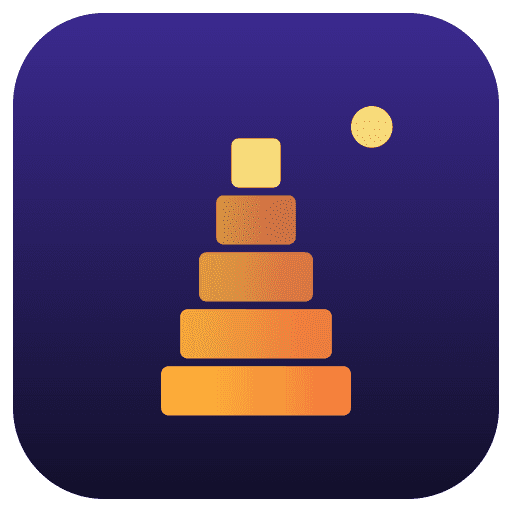
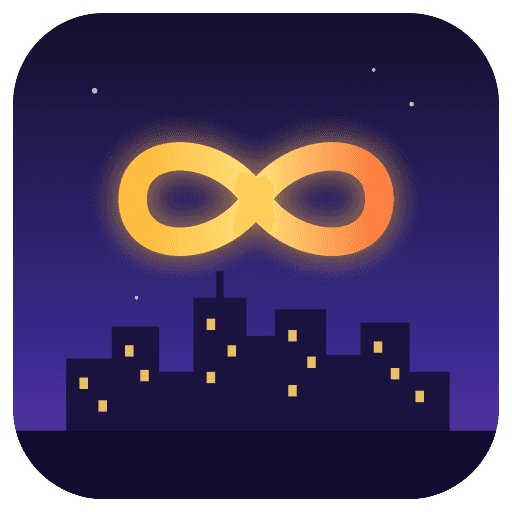
Nuevo nombre e icono: Infinite City
- El juego pasa a llamarse Infinite City (manifiesto, título, pantalla de
  carga, texto al compartir la ciudad y README). La dirección y el
  repositorio conservan torre-idle para no perder partidas guardadas.
- Icono nuevo: skyline nocturno con un ∞ dorado, en todos los tamaños.
- El icono adaptable de Android y el de iPhone van a sangre con el fondo del
  juego en vez del margen blanco (pwa-assets.config.ts para npm run icons).
- La pantalla de carga muestra el icono en lugar del emoji.

diff --git a/pwa-assets.config.ts b/pwa-assets.config.ts
@@ -1,0 +1,14 @@
+import { defineConfig, minimal2023Preset } from '@vite-pwa/assets-generator/config';
+
+// `npm run icons` genera favicon e iconos PWA desde public/icon.svg.
+// El adaptable de Android y el de iPhone van a sangre con el fondo del juego
+// (el sistema los recorta), en vez del margen blanco del preset.
+export default defineConfig({
+  headLinkOptions: { preset: '2023' },
+  preset: {
+    ...minimal2023Preset,
+    maskable: { ...minimal2023Preset.maskable, padding: 0, resizeOptions: { background: '#12102a' } },
+    apple: { ...minimal2023Preset.apple, padding: 0, resizeOptions: { background: '#12102a' } },
+  },
+  images: ['public/icon.svg'],
+});

diff --git a/src/ui/CityVisit.tsx b/src/ui/CityVisit.tsx
@@ -14,10 +14,10 @@ import { SEASON_LABEL, WEATHER_LABEL, seasonAt, weatherAt } from './weather';
 export async function shareCity(uid: string, name: string) {
   const url = cityLink(uid);
   const toast = useGame.getState().toast;
-  const text = `Visita mi ciudad en Torre Idle: ${name}`;
+  const text = `Visita mi ciudad en Infinite City: ${name}`;
   try {
     if (navigator.share) {
-      await navigator.share({ title: 'Torre Idle', text, url });
+      await navigator.share({ title: 'Infinite City', text, url });
       return;
     }
     await navigator.clipboard.writeText(url);

diff --git a/vite.config.ts b/vite.config.ts
@@ -25,8 +25,8 @@ export default defineConfig({
       },
       includeAssets: ['favicon.ico', 'apple-touch-icon-180x180.png', 'icon.svg'],
       manifest: {
-        name: 'Torre Idle',
-        short_name: 'Torre Idle',
+        name: 'Infinite City',
+        short_name: 'Infinite City',
         description: 'Construye tu ciudad, juega minijuegos y compite en el ranking.',
         lang: 'es',
         theme_color: '#12102a',

diff --git a/src/App.tsx b/src/App.tsx
@@ -141,8 +141,8 @@ export default function App() {
   if (!ready) {
     return (
       <div className="splash">
-        <div className="splash-logo">🏛</div>
-        <div className="splash-title">Torre Idle</div>
+        <img className="splash-logo" src="/icon.svg" alt="" />
+        <div className="splash-title">Infinite City</div>
         <div className="spinner" />
       </div>
     );

diff --git a/index.html b/index.html
@@ -13,7 +13,7 @@
     <link rel="preconnect" href="https://fonts.googleapis.com" />
     <link rel="preconnect" href="https://fonts.gstatic.com" crossorigin />
     <link href="https://fonts.googleapis.com/css2?family=Baloo+2:wght@500;600;700;800&display=swap" rel="stylesheet" />
-    <title>Torre Idle</title>
+    <title>Infinite City</title>
   </head>
   <body>
     <div id="root"></div>

diff --git a/src/styles.css b/src/styles.css
@@ -130,6 +130,12 @@ small {
   filter: drop-shadow(0 0 24px rgba(255, 200, 80, 0.6));
 }
 
+img.splash-logo {
+  width: 112px;
+  height: 112px;
+  filter: drop-shadow(0 0 24px rgba(255, 200, 80, 0.35));
+}
+
 .splash-title {
   font-size: 2rem;
   font-weight: 800;

diff --git a/README.md b/README.md
@@ -1,6 +1,6 @@
-# Torre Idle
+# Infinite City
 
-Juego idle/clicker para móvil (PWA) con minijuegos. Está hecho con React, Vite y TypeScript, usa Firebase (Auth anónima, Firestore y Analytics) y se despliega en Vercel.
+Juego idle/clicker para móvil (PWA) con minijuegos (antes se llamaba Torre Idle; el repositorio y la dirección `torre-idle.vercel.app` conservan ese nombre para no perder las partidas guardadas). Está hecho con React, Vite y TypeScript, usa Firebase (Auth anónima, Firestore y Analytics) y se despliega en Vercel.
 
 ## Minijuegos
 
@@ -87,6 +87,7 @@ npm install
 npm run dev      # http://localhost:5173
 npm test         # tests de la lógica (economía y minijuegos)
 npm run build    # build de producción en dist/
+npm run icons    # regenera favicon e iconos PWA desde public/icon.svg (ver pwa-assets.config.ts)
 ```
 
 La configuración de Firebase está en `.env.local`, que no se sube al repositorio. `.env.example` sirve de plantilla.
